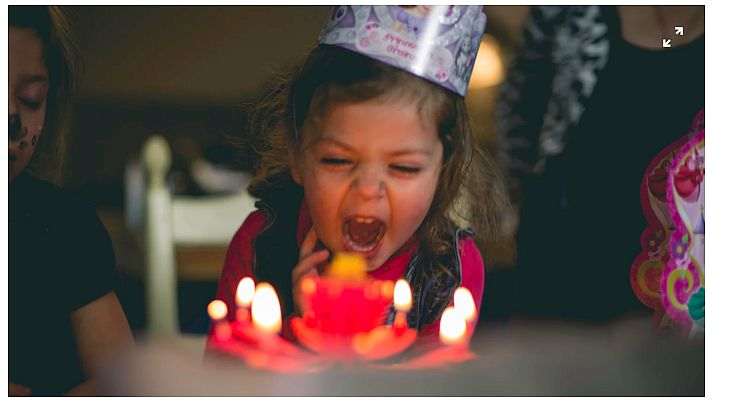
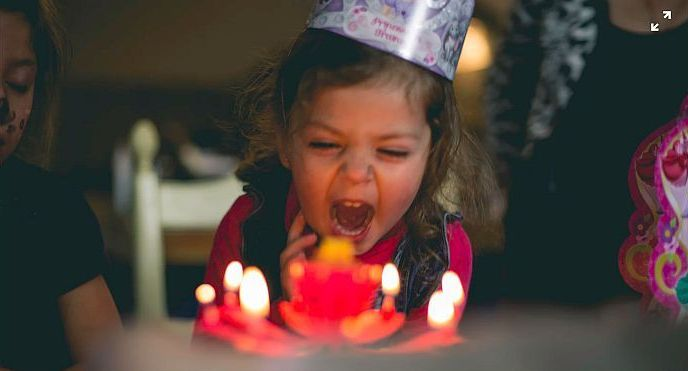
finished sizing landing page images

diff --git a/index.html b/index.html
@@ -20,7 +20,9 @@
     </nav>
 </header>
 <body>
+    
         <img class="birthday" src="Images\Birthday Girl.jpg" alt="Birthday girl blowing out candles.">
+        <img class="twokids" src="Images\twoKids.jpg" alt="Two adorable children looking for someone">
     <div class="flex">
     <section class="main-content">
         <div class="content">
@@ -29,7 +31,7 @@
                 remind you! Weddings, birthday's, anniversaries. We will remind you! </p>
         </div>
         <div class="image">
-            <img src="Images\WineglassesClinking.jpeg" alt="Wine Glasses Clinking at Dinner Table" />
+            <img class="stay" src="Images\stayConnectedHands.jpg" alt="Four pairs of hands linked together." />
         </div>
     </section>
     <section class="main-content">
@@ -39,7 +41,7 @@
                 remind you! Weddings, birthday's, anniversaries. We will remind you! </p>
         </div>
         <div class="image">
-            <img src="Images\stayConnectedHands.jpeg" alt="Hands linking together, staying connected." />
+            <img class="grand" src="Images\grandparents.jpeg" alt="Grandparents enjoying wine on their Anniversary." />
         </div>
     </section>
     <section class="main-content">
@@ -49,7 +51,7 @@
                 remind you! Weddings, birthday's, anniversaries. We will remind you! </p>
         </div>
         <div class="image">
-            <img src="Images\messypostit.jpeg" alt="Messy Pile of Post-it Notes" />
+            <img src="Images\messypostit.jpg" alt="Messy Pile of Post-it Notes" />
         </div>
     </section>
     <section class="main-content">
@@ -59,7 +61,7 @@
                     remind you! Weddings, birthday's, anniversaries. We will remind you! </p>
             </div>
             <div class="image">
-                <img src="Images\reminder.jpeg" alt="Organised Post-it Notes on A Wall" />
+                <img src="Images\reminder.jpg" alt="Organised Post-it Notes on A Wall" />
             </div>
         </section>
     </div>

diff --git a/less/index.less b/less/index.less
@@ -75,11 +75,10 @@ table {
   }
   .container {
     /* constraint */
-    max-width: 85%;
+    max-width: 1058px;
     font-size: 1.6rem;
     margin: 0 auto;
     padding: 20px;
-    background-color: #4abdac;
   } 
 
   header {
@@ -115,16 +114,31 @@ table {
   flex-wrap: wrap;
   width: 48%;
 
+  h2{
+    align-items: center;
+  }
+}
 
+
+  // Images //
 img {
-  border-radius: 10%;
-    width: 90%;
-    height: auto;
+  border-radius: 10px;
+  height: auto;
   
-}}
+}
 
 .birthday {
   height: auto;
-  width:105%;
+  width: 54%;
+  margin-top: 40px;
 }
-
+.twokids {
+  width: 44%;
+}
+.grand {
+  width: 105%;
+  margin-top: 26px;
+}
+.stay{
+  width: 90%;
+}

diff --git a/css/index.css b/css/index.css
@@ -153,11 +153,10 @@ p {
 }
 .container {
   /* constraint */
-  max-width: 85%;
+  max-width: 1058px;
   font-size: 1.6rem;
   margin: 0 auto;
   padding: 20px;
-  background-color: #4abdac;
 }
 header {
   display: flex;
@@ -192,12 +191,25 @@ header nav .birthday {
   flex-wrap: wrap;
   width: 48%;
 }
-.main-content img {
-  border-radius: 10%;
-  width: 90%;
+.main-content h2 {
+  align-items: center;
+}
+img {
+  border-radius: 10px;
   height: auto;
 }
 .birthday {
   height: auto;
+  width: 54%;
+  margin-top: 40px;
+}
+.twokids {
+  width: 44%;
+}
+.grand {
   width: 105%;
+  margin-top: 26px;
+}
+.stay {
+  width: 90%;
 }
